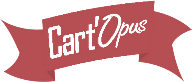
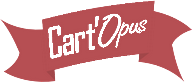
InsertionsBDD

diff --git a/application/views/templates/Entete.php b/application/views/templates/Entete.php
@@ -5,20 +5,18 @@
     </head>
     <body>
     <div class="row" style="background-color:#0E7896">
-    <section>
-        <div class = "section-inner"> 
-            <div class="col-sm-2" style="padding:20px">
-                <?php 
-                    echo'<a href="'.site_url('Visiteur/loadAccueil').'">'.img('logoAccueil.png').'</a>';
-                ?>
-            </div>
-            <div class="col-sm-7" style="padding:20px">
-                <div class = "text-center">
+        <section>
+            <div class = "section-inner"> 
+                <div class="col-sm-2" style="padding:20px">
                     <?php 
-                        echo img('Banderole.png');
+                        echo'<a href="'.site_url('Visiteur/loadAccueil').'">'.img('logoAccueil.png').'</a>';
                     ?>
                 </div>
-            </div>
-            <div class="col-sm-3" style="padding:20px">
-
-   
+                <div class="col-sm-7" style="padding:20px">
+                    <div class = "text-center">
+                        <?php 
+                            echo img('Banniere.png');
+                        ?>
+                    </div>
+                </div>
+                <div class="col-sm-3" style="padding:20px">
